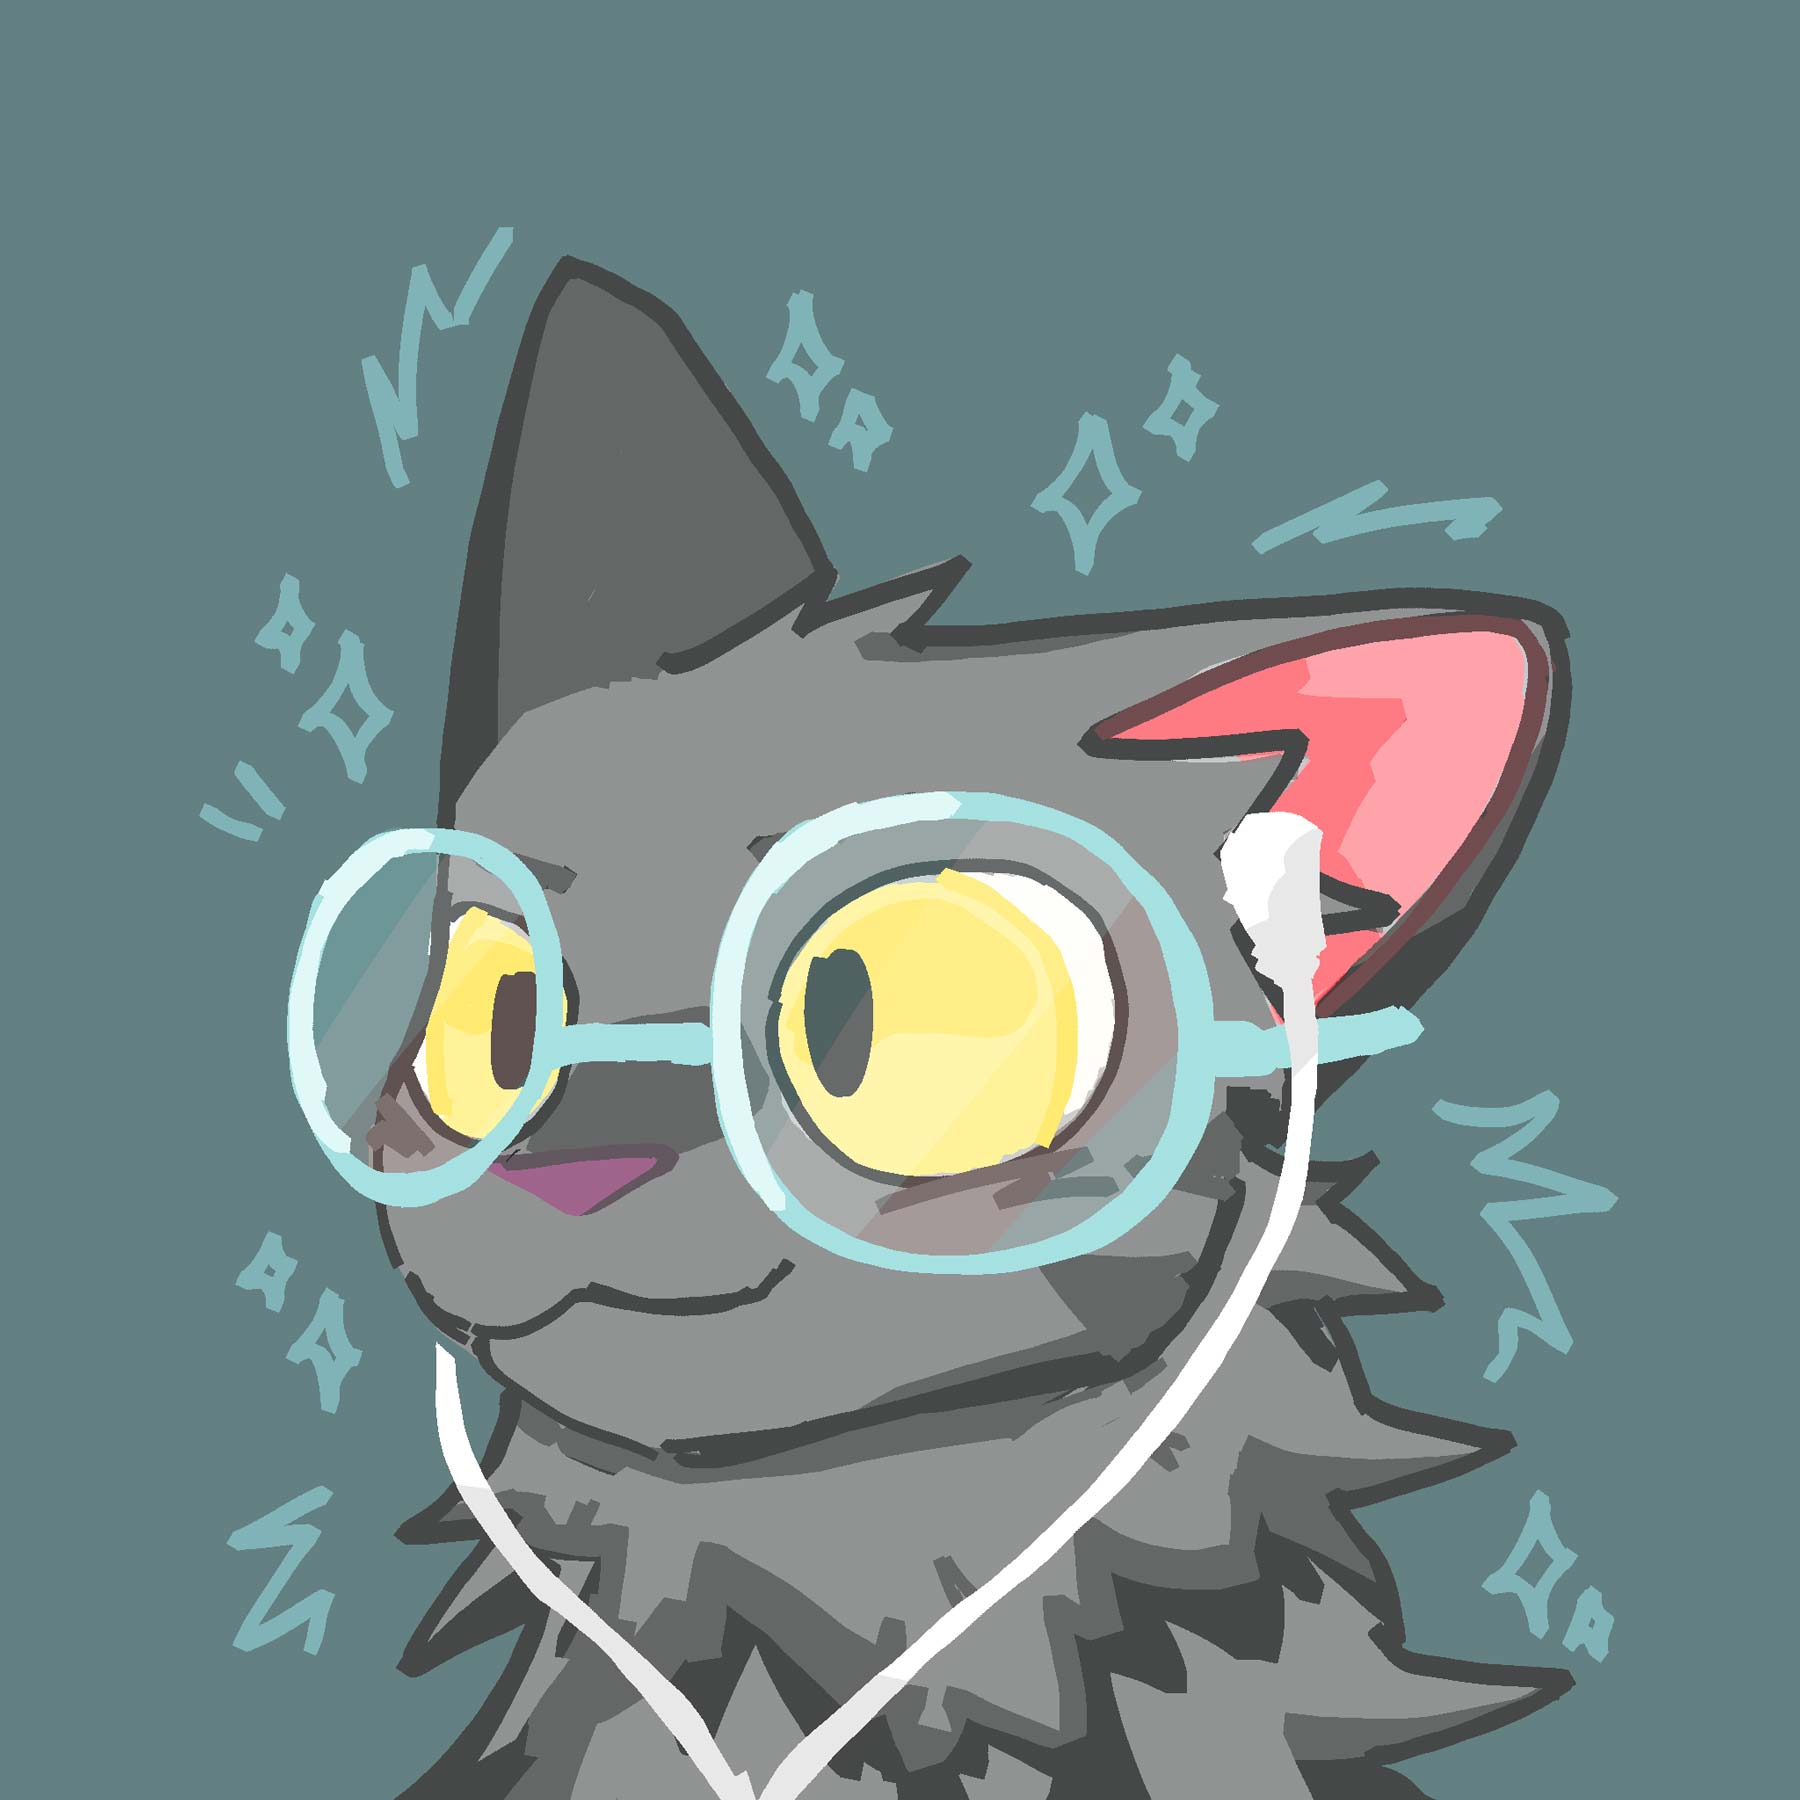
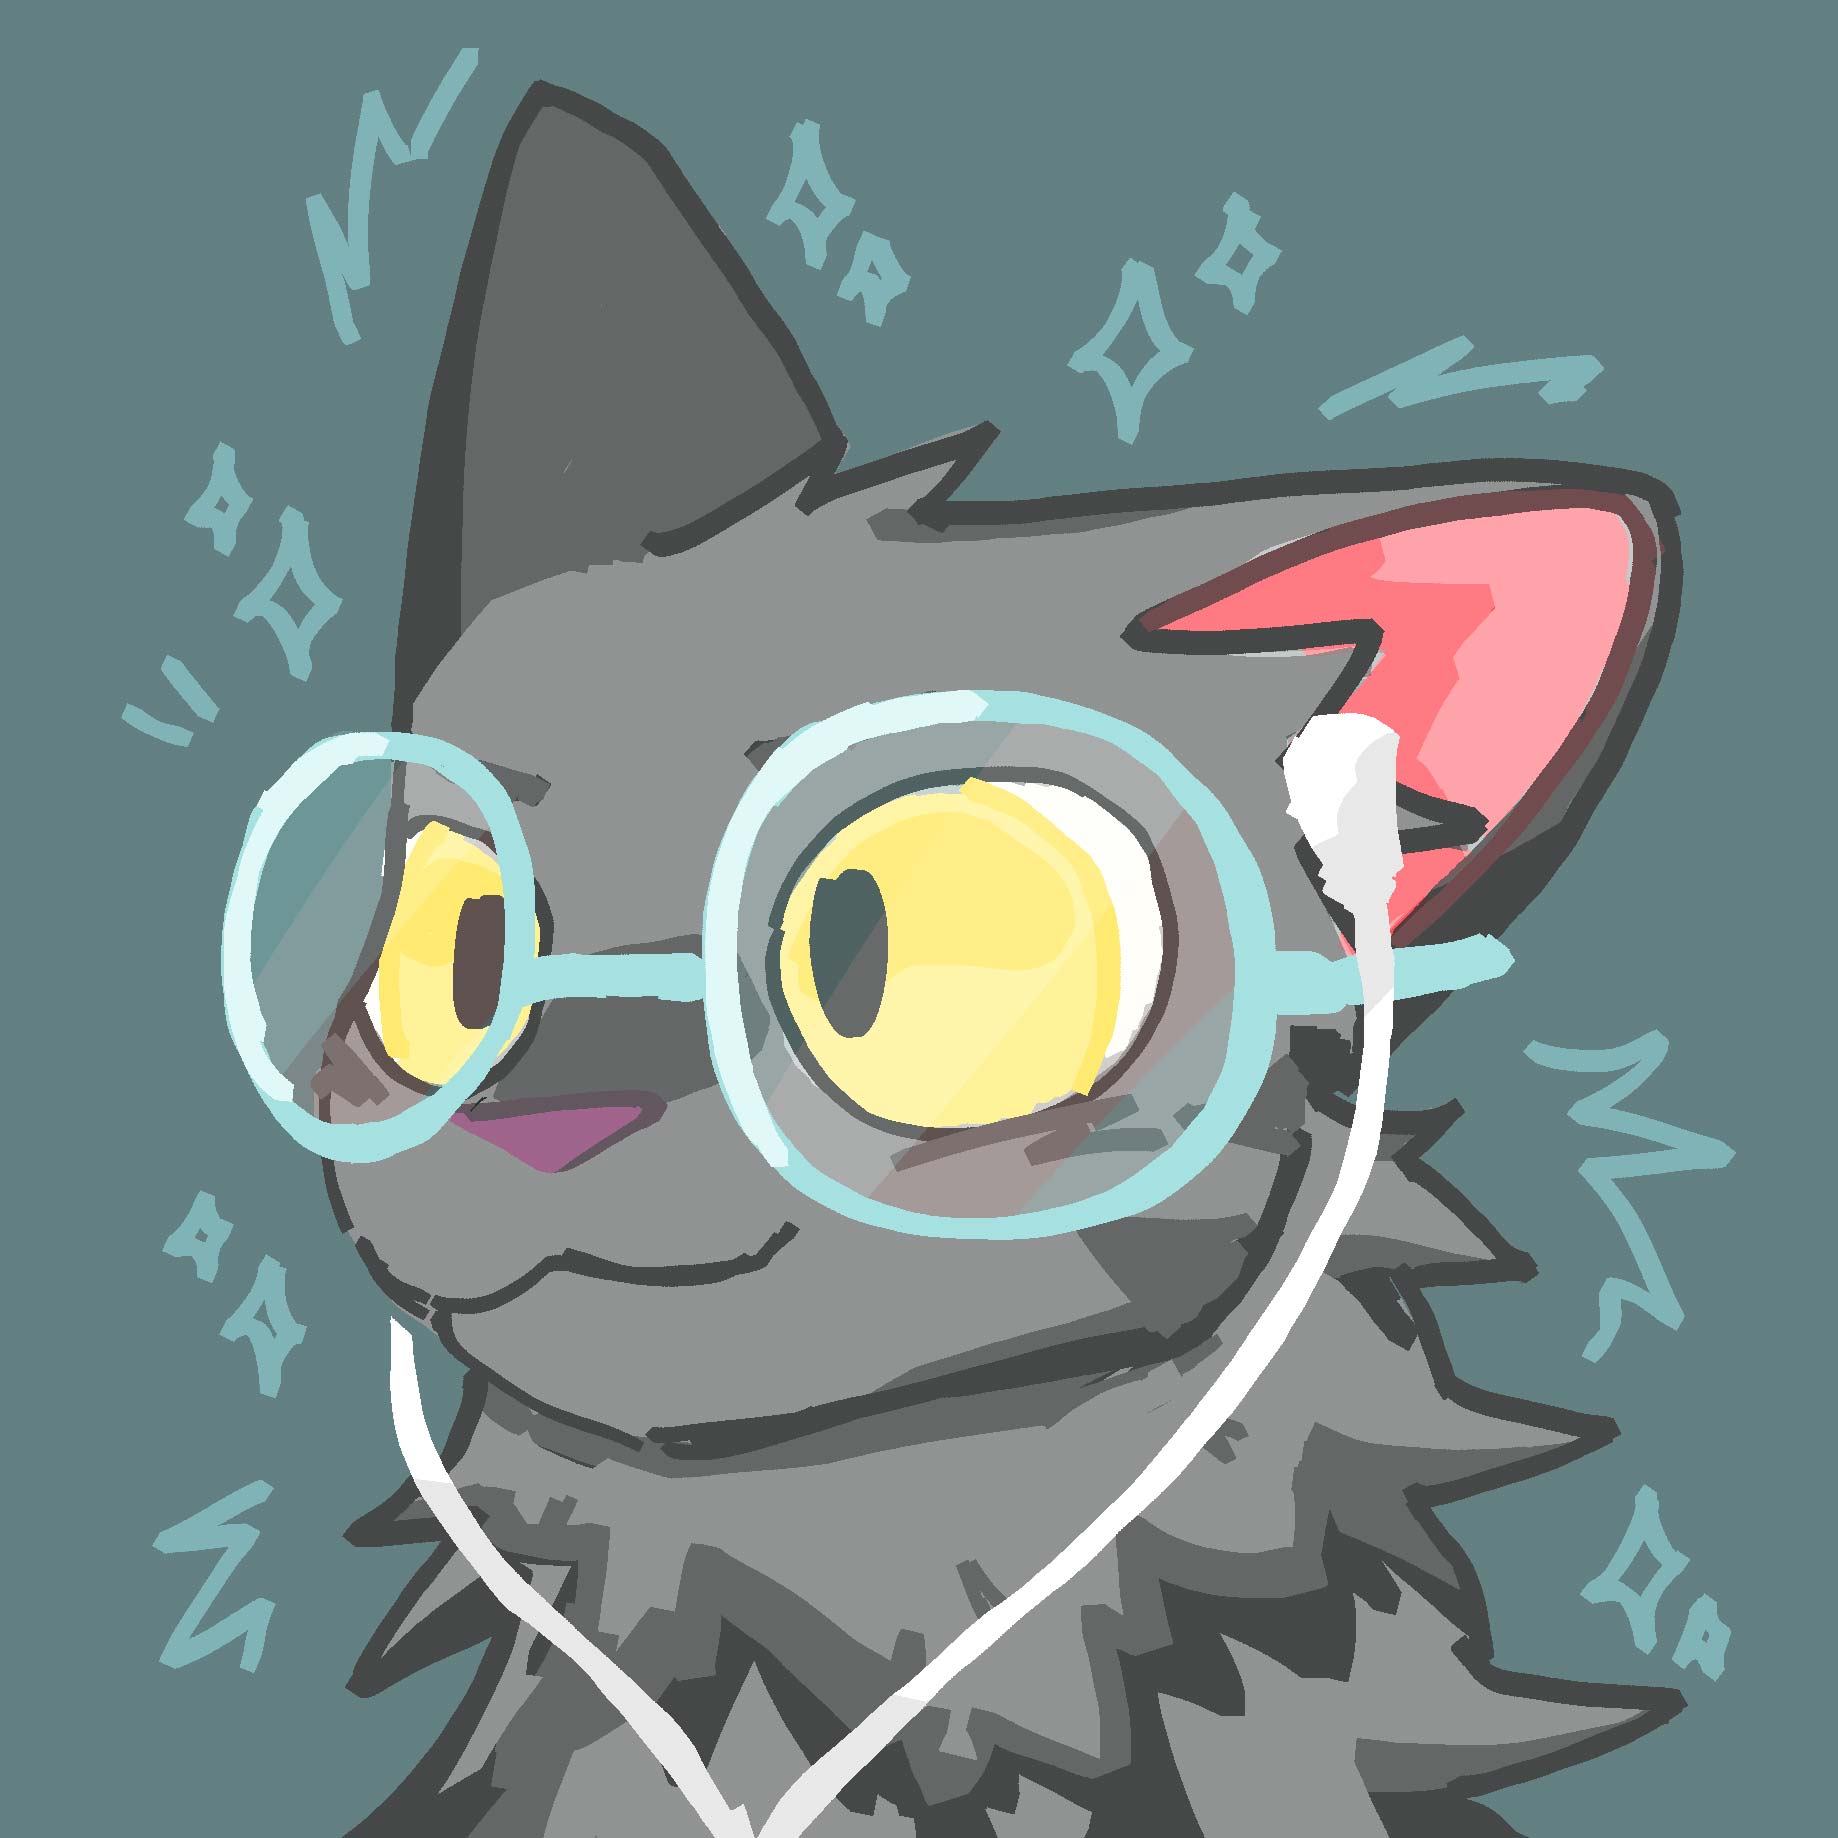
newly cropped pfp

diff --git a/index.html b/index.html
@@ -10,7 +10,7 @@
 		<meta name="theme-color" content="#181d25" media="(prefers-color-scheme: dark)" />
 		<meta name="description" content="bomberfish's personal website" />
 		<meta name="author" content="bomberfish" />
-		<meta name="og:image" content="https://bomberfish.ca/me.jpg" />
+		<meta name="og:image" content="https://bomberfish.ca/me.png" />
 		<link rel="apple-touch-icon" href="me.jpg">
 		<meta name="darkreader-lock" />
 		<base target="_blank" />
